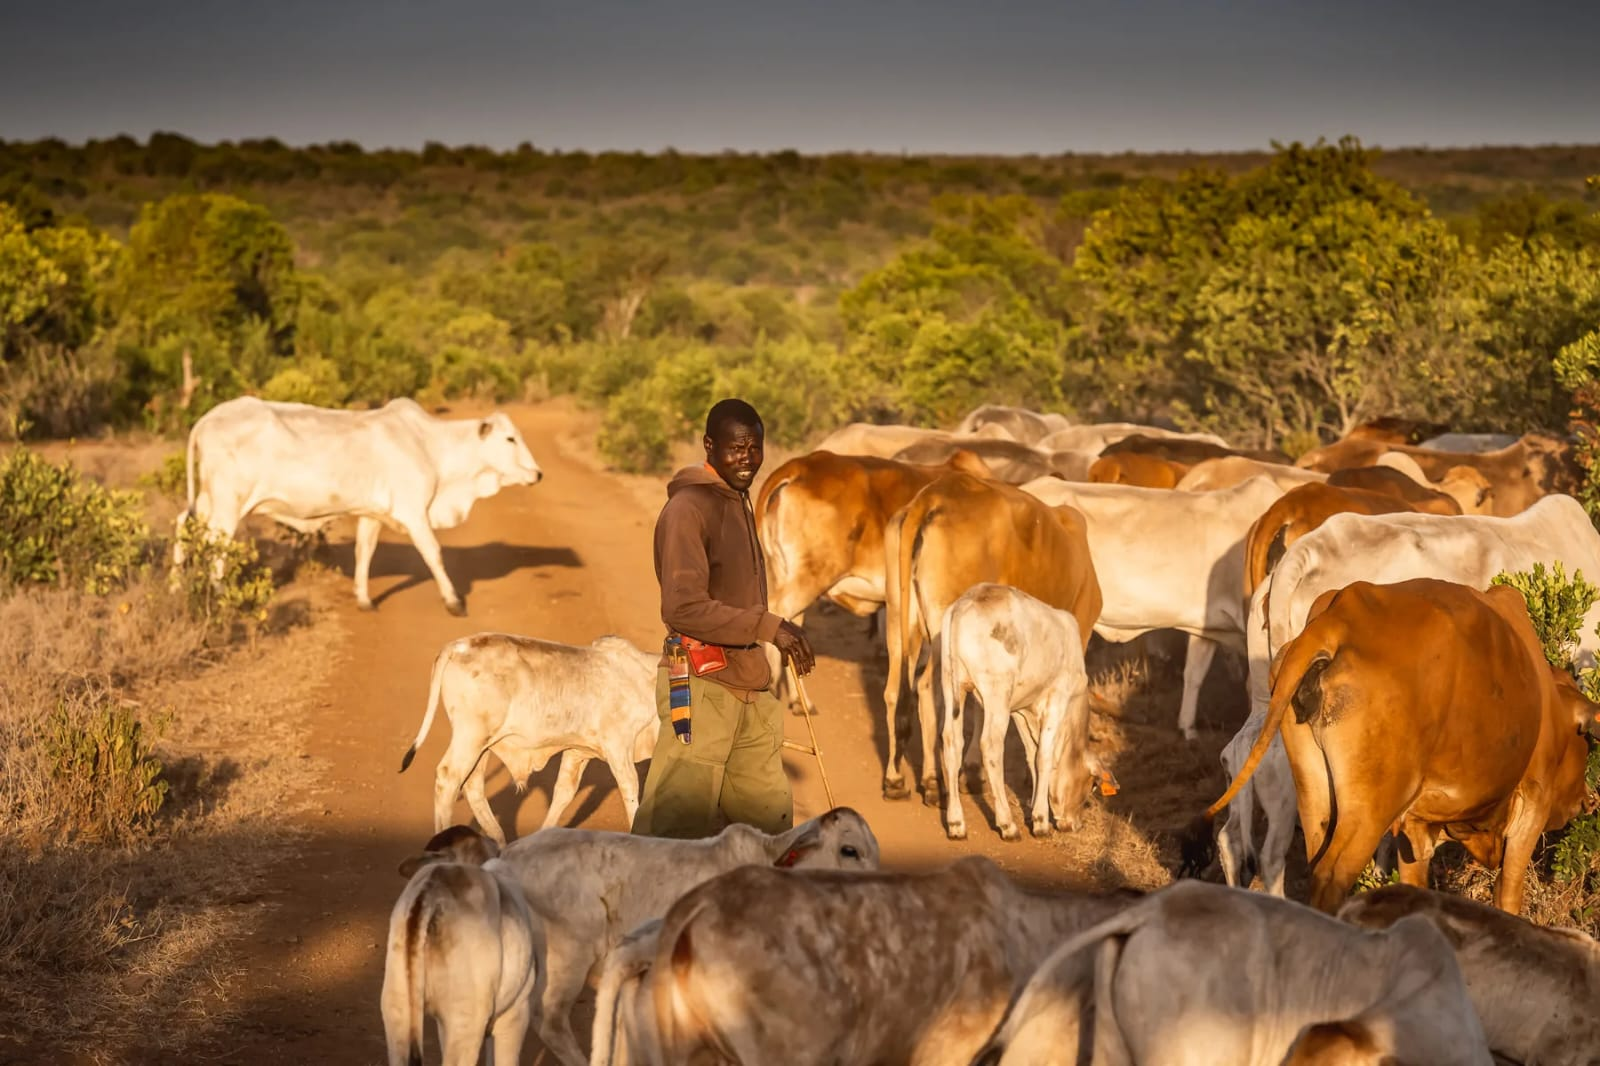
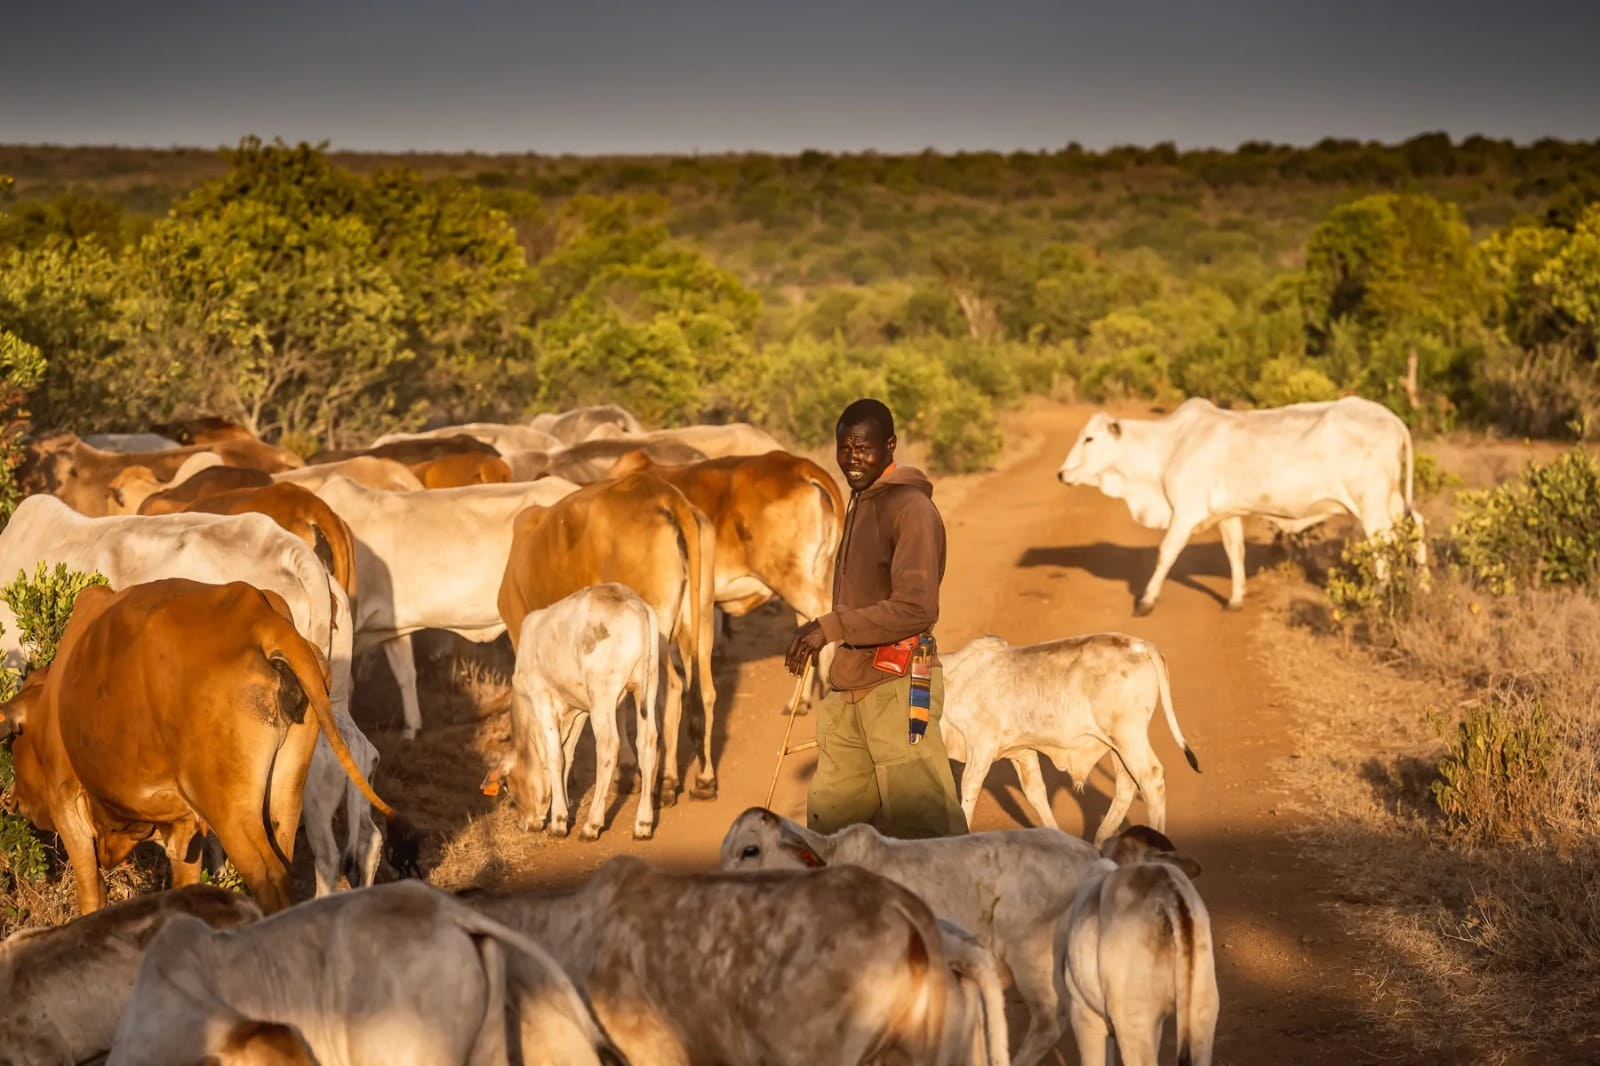
Add files via upload
color change photo updates and new livestock section updates

diff --git a/index.html b/index.html
@@ -59,11 +59,19 @@
 <section id="livestock" class="livestock">
   <span class="eyebrow">OUR LIVESTOCK</span>
   <h2>Quality Breeds, Ready for Your Farm</h2>
-  <p class="sub">Every animal is raised on our own pasture. Nationwide delivery available on every order below.</p>
+  <p class="sub">Tap a category to see every animal we have — cattle, goats, sheep or horses. Nationwide delivery available on every order.</p>
+
+  <div class="cat-tabs" id="catTabs">
+    <button class="cat-tile active" data-filter="all"><img src="images/gallery-2.jpg" alt=""><span class="cat-label"><b>All Livestock</b><small></small></span></button>
+    <button class="cat-tile" data-filter="cattle"><img src="images/cattle-dairy2.jpg" alt=""><span class="cat-label"><b>Cattle</b><small></small></span></button>
+    <button class="cat-tile" data-filter="goats"><img src="images/goat-boer.jpg" alt=""><span class="cat-label"><b>Goats</b><small></small></span></button>
+    <button class="cat-tile" data-filter="sheep"><img src="images/sheep-doper.jpg" alt=""><span class="cat-label"><b>Sheep</b><small></small></span></button>
+    <button class="cat-tile" data-filter="horses"><img src="images/horse-main.jpg" alt="" style="object-position:center 30%;"><span class="cat-label"><b>Horses</b><small></small></span></button>
+  </div>
 
   <div class="animal-grid">
 
-    <div class="animal-card">
+    <div class="animal-card" data-cat="cattle">
       <div class="thumb"><img src="images/cattle-sahiwal.jpg" alt="Sahiwal cattle at Sosian Ranch"></div>
       <div class="badge">🚚 Nationwide Delivery Available</div>
       <h3>Sahiwal Cattle</h3>
@@ -83,7 +91,7 @@
       </div>
     </div>
 
-    <div class="animal-card">
+    <div class="animal-card" data-cat="cattle">
       <div class="thumb"><img src="images/cattle-ayrshire.jpg" alt="Ayrshire cow at Sosian Ranch"></div>
       <div class="badge">🚚 Nationwide Delivery Available</div>
       <h3>Ayrshire Cow</h3>
@@ -103,7 +111,7 @@
       </div>
     </div>
 
-    <div class="animal-card">
+    <div class="animal-card" data-cat="cattle">
       <div class="thumb"><img src="images/cattle-dairy.jpg" alt="Girolando heifers at Sosian Ranch"></div>
       <div class="badge">🚚 Nationwide Delivery Available</div>
       <h3>Girolando Breed Heifers</h3>
@@ -123,7 +131,7 @@
       </div>
     </div>
 
-    <div class="animal-card">
+    <div class="animal-card" data-cat="cattle">
       <div class="thumb"><img src="images/cattle-dairy2.jpg" alt="Dairy cows at Sosian Ranch"></div>
       <div class="badge">🚚 Nationwide Delivery Available</div>
       <h3>Dairy Cows</h3>
@@ -143,7 +151,7 @@
       </div>
     </div>
 
-    <div class="animal-card">
+    <div class="animal-card" data-cat="cattle">
       <div class="thumb"><img src="images/cattle-pedigree.jpg" alt="Pedigree dairy cows at Sosian Ranch"></div>
       <div class="badge">🚚 Nationwide Delivery Available</div>
       <h3>🐄 Pedigree Dairy Cows</h3>
@@ -160,8 +168,8 @@
       </div>
     </div>
 
-    <div class="animal-card">
-      <div class="thumb"><img src="images/goat-boer.jpg" alt="Boer goats at Sosian Ranch" style="object-position:center 40%;"></div>
+    <div class="animal-card" data-cat="goats">
+      <div class="thumb"><img src="images/goat-boer.jpg" alt="Boer goats at Sosian Ranch"></div>
       <div class="badge">🚚 Nationwide Delivery Available</div>
       <h3>Boer Goats</h3>
       <p>Premium Boer goats ideal for meat production and breeding.</p>
@@ -179,7 +187,7 @@
       </div>
     </div>
 
-    <div class="animal-card">
+    <div class="animal-card" data-cat="goats">
       <div class="thumb"><img src="images/goat-kalahari.jpg" alt="Red Kalahari goats at Sosian Ranch"></div>
       <div class="badge">🚚 Nationwide Delivery Available</div>
       <h3>Red Kalahari Goats</h3>
@@ -198,7 +206,7 @@
       </div>
     </div>
 
-    <div class="animal-card">
+    <div class="animal-card" data-cat="goats">
       <div class="thumb"><img src="images/goat-saanen.jpg" alt="Saanen dairy goats at Sosian Ranch"></div>
       <div class="badge">🚚 Nationwide Delivery Available</div>
       <h3>Saanen Dairy Goats</h3>
@@ -217,7 +225,7 @@
       </div>
     </div>
 
-    <div class="animal-card">
+    <div class="animal-card" data-cat="sheep">
       <div class="thumb"><img src="images/sheep-doper.jpg" alt="Doper sheep at Sosian Ranch"></div>
       <div class="badge">🚚 Nationwide Delivery Available</div>
       <h3>Doper Sheep</h3>
@@ -236,8 +244,8 @@
       </div>
     </div>
 
-    <div class="animal-card">
-      <div class="thumb"><img src="images/horse-main.jpg" alt="Horse at Sosian Ranch"></div>
+    <div class="animal-card" data-cat="horses">
+      <div class="thumb fit"><img src="images/horse-main.jpg" alt="Horse at Sosian Ranch"></div>
       <div class="badge">🚚 Nationwide Delivery Available</div>
       <h3>Horses</h3>
       <p>Healthy, well-raised horses suitable for farm and leisure use.</p>
@@ -259,21 +267,25 @@
   <span class="eyebrow">GALLERY</span>
   <h2>Life on the Ranch</h2>
   <div class="gallery-grid">
-    <div class="gallery-thumb"><img src="images/gallery-1.jpg" alt="Cattle on Sosian Ranch pasture"></div>
-    <div class="gallery-thumb"><img src="images/gallery-2.jpg" alt="Sosian Ranch cattle herd"></div>
-    <div class="gallery-thumb"><img src="images/gallery-3.jpg" alt="Cow and calf at Sosian Ranch"></div>
-    <div class="gallery-thumb"><img src="images/gallery-4.jpg" alt="Cattle grazing at Sosian Ranch" style="object-position:center 65%;"></div>
-    <div class="gallery-thumb"><img src="images/gallery-5.jpg" alt="Cow at Sosian Ranch"></div>
-    <div class="gallery-thumb"><img src="images/cattle-girolando.jpg" alt="Cattle at Sosian Ranch"></div>
-    <div class="gallery-thumb"><img src="images/sheep-doper2.jpg" alt="Doper sheep at Sosian Ranch"></div>
-    <div class="gallery-thumb"><img src="images/horse-2.jpg" alt="Horse at Sosian Ranch"></div>
-    <div class="gallery-thumb"><img src="images/horse-3.jpg" alt="Horse at Sosian Ranch"></div>
-    <div class="gallery-thumb"><img src="images/goat-red-1.jpg" alt="Goat at Sosian Ranch"></div>
-    <div class="gallery-thumb"><img src="images/goat-red-2.jpg" alt="Sheep at Sosian Ranch"></div>
-    <div class="gallery-thumb"><img src="images/cattle-group.jpg" alt="Cattle at Sosian Ranch"></div>
-    <div class="gallery-thumb"><img src="images/gallery-6.jpg" alt="Calf at Sosian Ranch"></div>
-    <div class="gallery-thumb"><img src="images/gallery-7.jpg" alt="Cow grazing at Sosian Ranch"></div>
-    <div class="gallery-thumb"><img src="images/gallery-8.jpg" alt="Cow grazing at Sosian Ranch"></div>
+    <div class="gallery-thumb fit"><img src="images/gallery-1.jpg" alt="Cattle on Sosian Ranch pasture"></div>
+    <div class="gallery-thumb fit"><img src="images/gallery-2.jpg" alt="Sosian Ranch cattle herd"></div>
+    <div class="gallery-thumb fit"><img src="images/gallery-3.jpg" alt="Cow and calf at Sosian Ranch"></div>
+    <div class="gallery-thumb fit"><img src="images/gallery-4.jpg" alt="Cattle grazing at Sosian Ranch"></div>
+    <div class="gallery-thumb fit"><img src="images/gallery-5.jpg" alt="Cow at Sosian Ranch"></div>
+    <div class="gallery-thumb fit"><img src="images/cattle-girolando.jpg" alt="Cattle at Sosian Ranch"></div>
+    <div class="gallery-thumb fit"><img src="images/sheep-doper2.jpg" alt="Doper sheep at Sosian Ranch"></div>
+    <div class="gallery-thumb fit"><img src="images/horse-2.jpg" alt="Horse at Sosian Ranch"></div>
+    <div class="gallery-thumb fit"><img src="images/horse-3.jpg" alt="Horse at Sosian Ranch"></div>
+    <div class="gallery-thumb fit"><img src="images/goat-red-1.jpg" alt="Goat at Sosian Ranch"></div>
+    <div class="gallery-thumb fit"><img src="images/goat-red-2.jpg" alt="Sheep at Sosian Ranch"></div>
+    <div class="gallery-thumb fit"><img src="images/cattle-group.jpg" alt="Cattle at Sosian Ranch"></div>
+    <div class="gallery-thumb fit"><img src="images/gallery-6.jpg" alt="Calf at Sosian Ranch"></div>
+    <div class="gallery-thumb fit"><img src="images/gallery-7.jpg" alt="Cow grazing at Sosian Ranch"></div>
+    <div class="gallery-thumb fit"><img src="images/gallery-8.jpg" alt="Cow grazing at Sosian Ranch"></div>
+    <div class="gallery-thumb fit"><img src="images/gallery-9.jpg" alt="Red Kalahari goat at Sosian Ranch"></div>
+    <div class="gallery-thumb fit"><img src="images/gallery-10.jpg" alt="Calves at Sosian Ranch"></div>
+    <div class="gallery-thumb fit"><img src="images/gallery-11.jpg" alt="Calves at Sosian Ranch"></div>
+    <div class="gallery-thumb fit"><img src="images/gallery-12.jpg" alt="Cow and calf at Sosian Ranch"></div>
   </div>
   <p class="sub small">More photos added regularly — send us more farm photos any time to add here.</p>
 </section>

diff --git a/styles.css b/styles.css
@@ -1,9 +1,9 @@
 :root{
-  --green:#1f3d2b; --green-dk:#152a1e; --gold:#c9a227; --cream:#f7f3ea;
-  --ink:#221f19; --text:#4a4638; --line:#e3dbc4;
+  --green:#1f3d2b; --green-dk:#152a1e; --green-mid:#2f6a45; --gold:#c9a227;
+  --sage:#d6e6cd; --pale:#eef5e7; --ink:#1d2419; --text:#3b4a37; --line:#bcd3b1;
 }
 *{box-sizing:border-box;}
-body{margin:0;font-family:-apple-system,'Helvetica Neue',Arial,sans-serif;background:var(--cream);color:var(--ink);}
+body{margin:0;font-family:-apple-system,'Helvetica Neue',Arial,sans-serif;background:var(--sage);color:var(--ink);overflow-x:hidden;}
 h1,h2,h3{font-family:Georgia,'Times New Roman',serif;margin:0 0 .3em;}
 p{color:var(--text);line-height:1.6;margin:.3em 0;}
 a{text-decoration:none;color:inherit;}
@@ -35,8 +35,9 @@ section{padding:60px 20px;max-width:1100px;margin:0 auto;}
 .btn.full{width:100%;text-align:center;}
 
 /* Hero */
-.hero{background:linear-gradient(rgba(15,25,15,.6),rgba(15,25,15,.6)) , linear-gradient(120deg,#2b4a34,#4c6b40);background-size:cover;background-position:center;padding:80px 20px;color:#fff;text-align:left;}
-.hero-inner{max-width:700px;margin:0 auto;}
+.hero{max-width:none;background:linear-gradient(rgba(15,25,15,.6),rgba(15,25,15,.6)) , linear-gradient(120deg,#2b4a34,#4c6b40);background-size:cover;background-position:center;padding:100px 20px;color:#fff;text-align:left;}
+.hero-inner{max-width:1100px;margin:0 auto;}
+.hero-inner>*:not(.hero-buttons){max-width:520px;}
 .tag{display:inline-block;background:rgba(0,0,0,.35);padding:4px 10px;border-radius:3px;font-size:12px;margin-bottom:14px;}
 .hero h1{font-size:clamp(28px,5vw,44px);color:#fff;}
 .hero p{color:#e6ecdf;max-width:55ch;}
@@ -46,10 +47,10 @@ section{padding:60px 20px;max-width:1100px;margin:0 auto;}
 .reach a{color:var(--gold);text-decoration:underline;}
 
 /* Stats */
-.stats{display:flex;justify-content:center;gap:60px;background:#fbfaf3;border-bottom:1px solid var(--line);padding:24px 20px;}
+.stats{display:flex;justify-content:center;gap:60px;background:var(--green);padding:24px 20px;}
 .stat{text-align:center;}
-.stat b{display:block;font-size:26px;color:var(--green);font-family:Georgia,serif;}
-.stat span{font-size:12px;text-transform:uppercase;color:#9a9484;}
+.stat b{display:block;font-size:26px;color:var(--gold);font-family:Georgia,serif;}
+.stat span{font-size:12px;text-transform:uppercase;color:#cfe0d1;}
 
 /* About */
 .about{text-align:left;max-width:800px;}
@@ -58,10 +59,10 @@ section{padding:60px 20px;max-width:1100px;margin:0 auto;}
 .livestock{text-align:center;}
 .livestock h2{max-width:600px;margin:0 auto;}
 .sub{max-width:560px;margin:8px auto 30px;}
-.sub.small{font-size:13px;color:#9a9484;margin-top:16px;}
-.animal-grid{display:grid;grid-template-columns:repeat(auto-fit,minmax(260px,1fr));gap:22px;text-align:left;}
-.animal-card{background:#fff;border:1px solid var(--line);border-radius:10px;overflow:hidden;display:flex;flex-direction:column;}
-.thumb{height:180px;background:#eee6d2;display:flex;flex-direction:column;align-items:center;justify-content:center;font-size:48px;color:#c9a227;position:relative;overflow:hidden;}
+.sub.small{font-size:13px;color:#4f6b4a;margin-top:16px;}
+.animal-grid{display:grid;grid-template-columns:repeat(auto-fill,minmax(260px,1fr));gap:22px;text-align:left;}
+.animal-card{background:var(--pale);border:1px solid var(--line);border-radius:10px;overflow:hidden;display:flex;flex-direction:column;}
+.thumb{height:230px;background:#cfe0c6;display:flex;flex-direction:column;align-items:center;justify-content:center;font-size:48px;color:#c9a227;position:relative;overflow:hidden;}
 .thumb span{font-size:11px;color:#a89a6f;margin-top:6px;font-family:-apple-system,sans-serif;}
 .thumb img{width:100%;height:100%;object-fit:cover;display:block;}
 .badge{background:var(--green);color:#fff;font-size:11px;padding:5px 10px;display:inline-block;margin:10px 14px 0;border-radius:4px;width:fit-content;}
@@ -75,24 +76,25 @@ section{padding:60px 20px;max-width:1100px;margin:0 auto;}
 /* Gallery */
 .gallery{text-align:center;}
 .gallery-grid{display:grid;grid-template-columns:repeat(auto-fit,minmax(160px,1fr));gap:16px;}
-.gallery-thumb{background:#eee6d2;border-radius:8px;height:180px;display:flex;flex-direction:column;align-items:center;justify-content:center;font-size:36px;color:#c9a227;overflow:hidden;}
+.gallery-thumb{background:#cfe0c6;border-radius:8px;height:200px;display:flex;flex-direction:column;align-items:center;justify-content:center;font-size:36px;color:#c9a227;overflow:hidden;}
 .gallery-thumb span{font-size:11px;color:#a89a6f;margin-top:4px;}
 .gallery-thumb img{width:100%;height:100%;object-fit:cover;display:block;}
 
 /* Testimonials */
 .testimonials{text-align:center;}
 .testi-grid{display:grid;grid-template-columns:repeat(auto-fit,minmax(240px,1fr));gap:20px;text-align:left;}
-.testi-card{background:#fff;border:1px solid var(--line);border-radius:10px;padding:20px;}
+.testi-card{background:var(--pale);border:1px solid var(--line);border-radius:10px;padding:20px;}
 .stars{color:var(--gold);margin-bottom:8px;}
 .testi-card span{display:block;margin-top:10px;font-size:12.5px;color:#9a9484;}
 
 /* Visit */
 .visit{text-align:left;}
 .visit-cards{display:grid;grid-template-columns:repeat(auto-fit,minmax(180px,1fr));gap:16px;margin:24px 0;}
-.visit-card{background:#fff;border:1px solid var(--line);border-radius:8px;padding:16px;text-align:center;}
+.visit-card{background:var(--pale);border:1px solid var(--line);border-radius:8px;padding:16px;text-align:center;}
 
 /* FAQ */
 .faq-item{border-bottom:1px solid var(--line);}
+.faq-list{max-width:800px;}
 .faq-q{width:100%;text-align:left;background:none;border:none;padding:16px 4px;font-size:15px;font-weight:600;cursor:pointer;display:flex;justify-content:space-between;color:var(--ink);}
 .faq-a{max-height:0;overflow:hidden;transition:max-height .25s ease;padding:0 4px;}
 .faq-a p{font-size:14px;padding-bottom:14px;}
@@ -127,6 +129,37 @@ section{padding:60px 20px;max-width:1100px;margin:0 auto;}
 .float-btn{position:fixed;right:18px;width:54px;height:54px;border-radius:50%;display:flex;align-items:center;justify-content:center;font-size:24px;box-shadow:0 4px 10px rgba(0,0,0,.25);z-index:60;}
 .float-call{bottom:88px;background:var(--green);color:#fff;}
 .float-whatsapp{bottom:20px;background:#25d366;color:#fff;}
+
+/* Full-width coloured bands */
+.stats,.livestock,.testimonials,.faq,.contact{clip-path:inset(0 -100vmax);}
+.stats{box-shadow:0 0 0 100vmax var(--green);}
+.livestock{background:var(--green-mid);box-shadow:0 0 0 100vmax var(--green-mid);}
+.testimonials{background:var(--green);box-shadow:0 0 0 100vmax var(--green);}
+.faq{background:var(--pale);box-shadow:0 0 0 100vmax var(--pale);}
+.contact{box-shadow:0 0 0 100vmax var(--green-dk);}
+.livestock h2,.testimonials h2{color:#fff;}
+.livestock .sub,.testimonials .sub{color:#e3efdd;}
+.testimonials .sub.small{color:#b9cfb4;}
+.livestock .eyebrow,.testimonials .eyebrow{background:var(--gold);color:var(--ink);}
+
+/* Category tiles (tap to filter) */
+.cat-tabs{display:grid;grid-template-columns:repeat(5,1fr);gap:12px;margin:0 0 26px;scroll-margin-top:84px;}
+.cat-tile{position:relative;height:120px;border:3px solid transparent;border-radius:10px;overflow:hidden;padding:0;cursor:pointer;background:var(--green-dk);}
+.cat-tile img{position:absolute;inset:0;width:100%;height:100%;object-fit:cover;display:block;transition:transform .25s;}
+.cat-tile:hover img{transform:scale(1.06);}
+.cat-tile::after{content:"";position:absolute;inset:0;background:linear-gradient(transparent 35%,rgba(10,30,15,.85));}
+.cat-label{position:absolute;left:10px;bottom:8px;z-index:2;text-align:left;color:#fff;}
+.cat-label b{display:block;font-size:15px;font-family:Georgia,serif;}
+.cat-label small{font-size:11px;color:#dcebd6;}
+.cat-tile.active{border-color:var(--gold);box-shadow:0 0 0 2px rgba(201,162,39,.4);}
+.animal-card[hidden]{display:none;}
+.animal-grid.filtered{grid-template-columns:repeat(auto-fit,minmax(260px,340px));justify-content:center;}
+@media (max-width:760px){.cat-tabs{grid-template-columns:repeat(2,1fr);}}
+
+/* Show whole photo (no cropping) on a soft blurred backdrop */
+.fit{position:relative;background:var(--green-dk);}
+.fit img.bg{position:absolute;inset:0;width:100%;height:100%;object-fit:cover;filter:blur(16px) brightness(.7);transform:scale(1.2);}
+.fit img.fg{position:relative;z-index:1;width:100%;height:100%;object-fit:contain !important;}
 
 @media (max-width:820px){
   .nav-links,.nav-buttons{display:none;}

diff --git a/script.js b/script.js
@@ -23,3 +23,34 @@ if (hamburger) {
     navLinks.style.gap = '14px';
   });
 }
+
+// Show whole photo on a blurred backdrop (horses + gallery)
+document.querySelectorAll('.fit').forEach(box => {
+  const img = box.querySelector('img');
+  if (!img) return;
+  img.classList.add('fg');
+  const bg = img.cloneNode();
+  bg.className = 'bg';
+  bg.alt = '';
+  bg.setAttribute('aria-hidden', 'true');
+  box.insertBefore(bg, img);
+});
+
+// Category tiles: tap Cattle / Goats / Sheep / Horses to filter the livestock cards
+const tiles = document.querySelectorAll('.cat-tile');
+const cards = Array.from(document.querySelectorAll('.animal-card'));
+const grid = document.querySelector('.animal-grid');
+const tabs = document.getElementById('catTabs');
+
+tiles.forEach(tile => {
+  const filter = tile.dataset.filter;
+  const count = filter === 'all' ? cards.length : cards.filter(c => c.dataset.cat === filter).length;
+  tile.querySelector('small').textContent = count + (count === 1 ? ' type' : ' types');
+
+  tile.addEventListener('click', () => {
+    tiles.forEach(t => t.classList.toggle('active', t === tile));
+    cards.forEach(c => { c.hidden = !(filter === 'all' || c.dataset.cat === filter); });
+    grid.classList.toggle('filtered', filter !== 'all');
+    tabs.scrollIntoView({ behavior: 'smooth', block: 'start' });
+  });
+});
